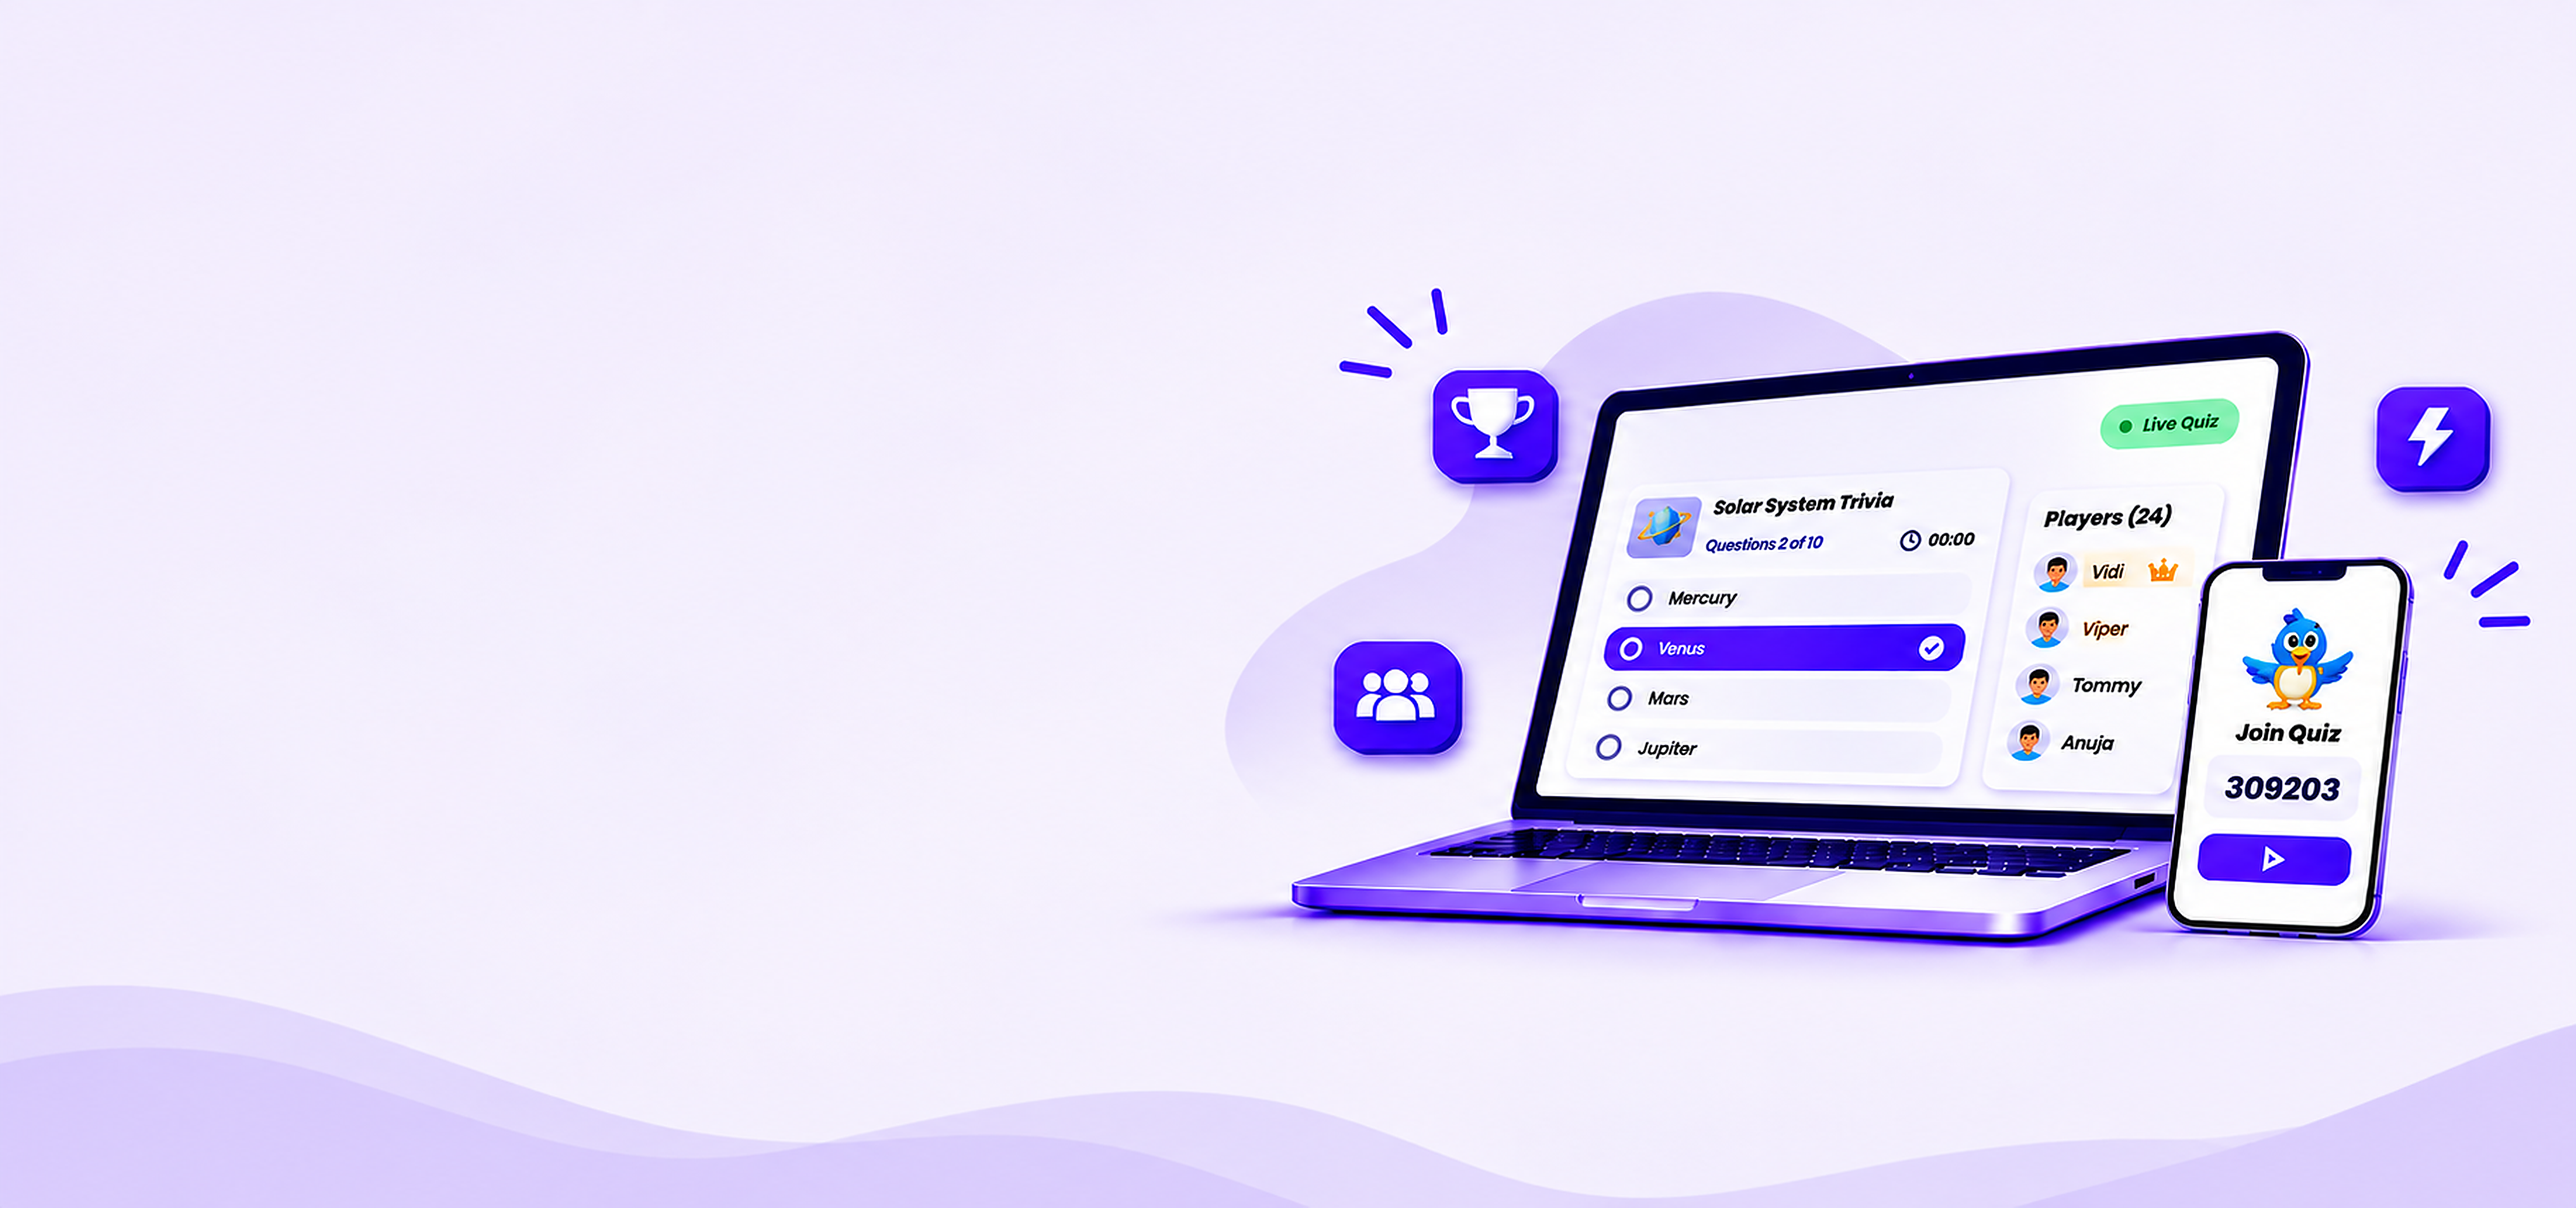
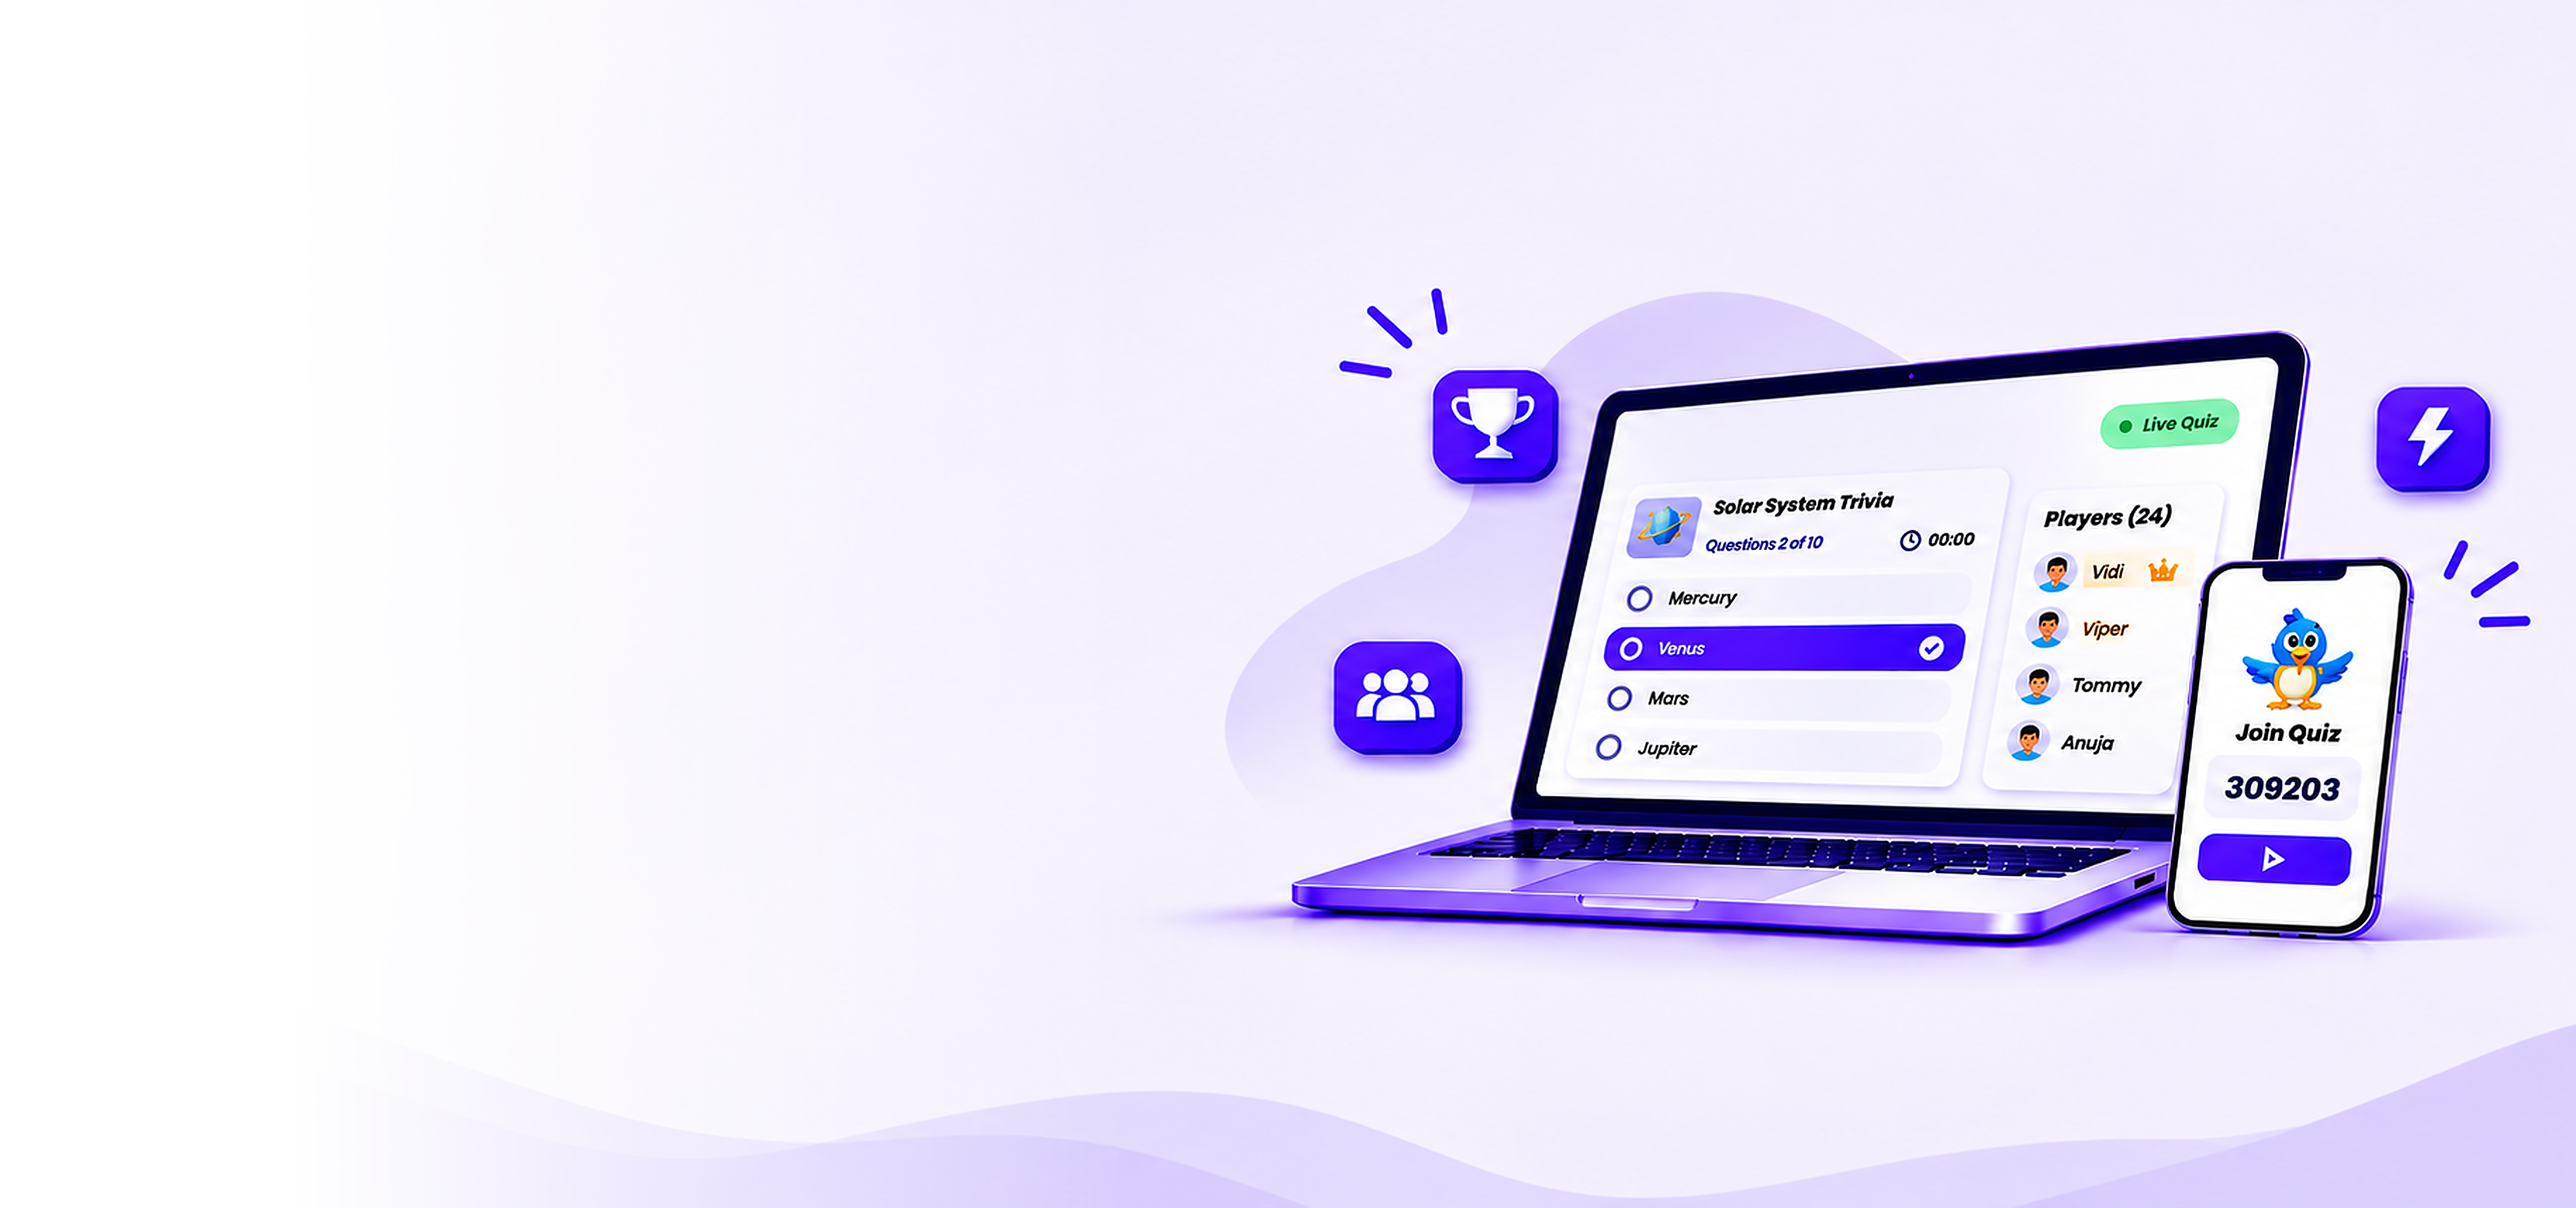
fix(landing): eliminate vertical background seam and gap on hero section

Changed region(s): [[0.0, 0.8021, 0.3113, 1.0]]

diff --git a/client/src/components/landing/HeroSection.jsx b/client/src/components/landing/HeroSection.jsx
@@ -65,7 +65,7 @@ export default function HeroSection() {
       id="hero" 
       className="relative pt-4 sm:pt-6 lg:pt-8 pb-8 sm:pb-12 lg:pb-16 overflow-hidden px-4 sm:px-8 min-h-0 lg:min-h-[680px] flex flex-col justify-between"
       style={{
-        background: 'linear-gradient(180deg, #FAF7FE 0%, #FAF8FF 100%)'
+        background: 'linear-gradient(180deg, #F3EEFD 0%, #FAF8FF 100%)'
       }}
     >
       {/* Background device showcase graphic integrated directly into desktop hero background */}
@@ -76,6 +76,10 @@ export default function HeroSection() {
           src="/hero-background-2x.png" 
           alt="Platform Interface Showcase" 
           className="absolute right-0 bottom-0 h-full w-auto max-w-none object-contain object-right-bottom" 
+          style={{
+            maskImage: 'linear-gradient(to right, transparent 0%, transparent 10%, black 45%, black 100%)',
+            WebkitMaskImage: 'linear-gradient(to right, transparent 0%, transparent 10%, black 45%, black 100%)'
+          }}
         />
       </div>
 
